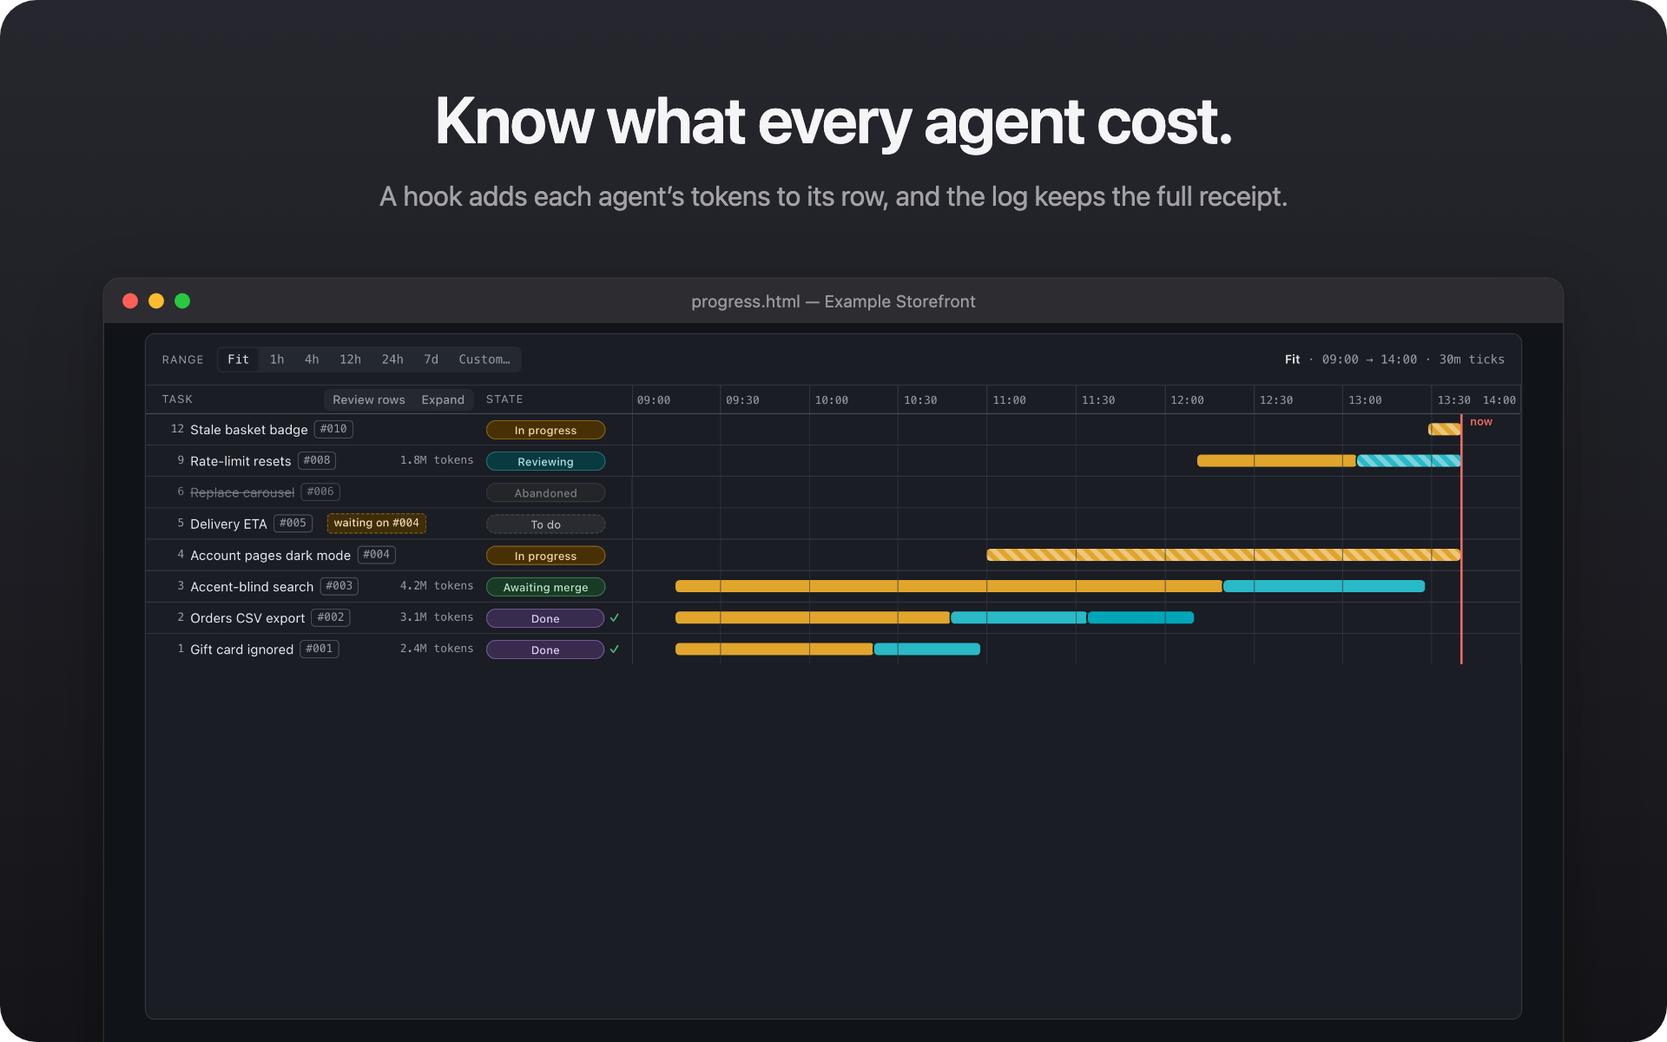
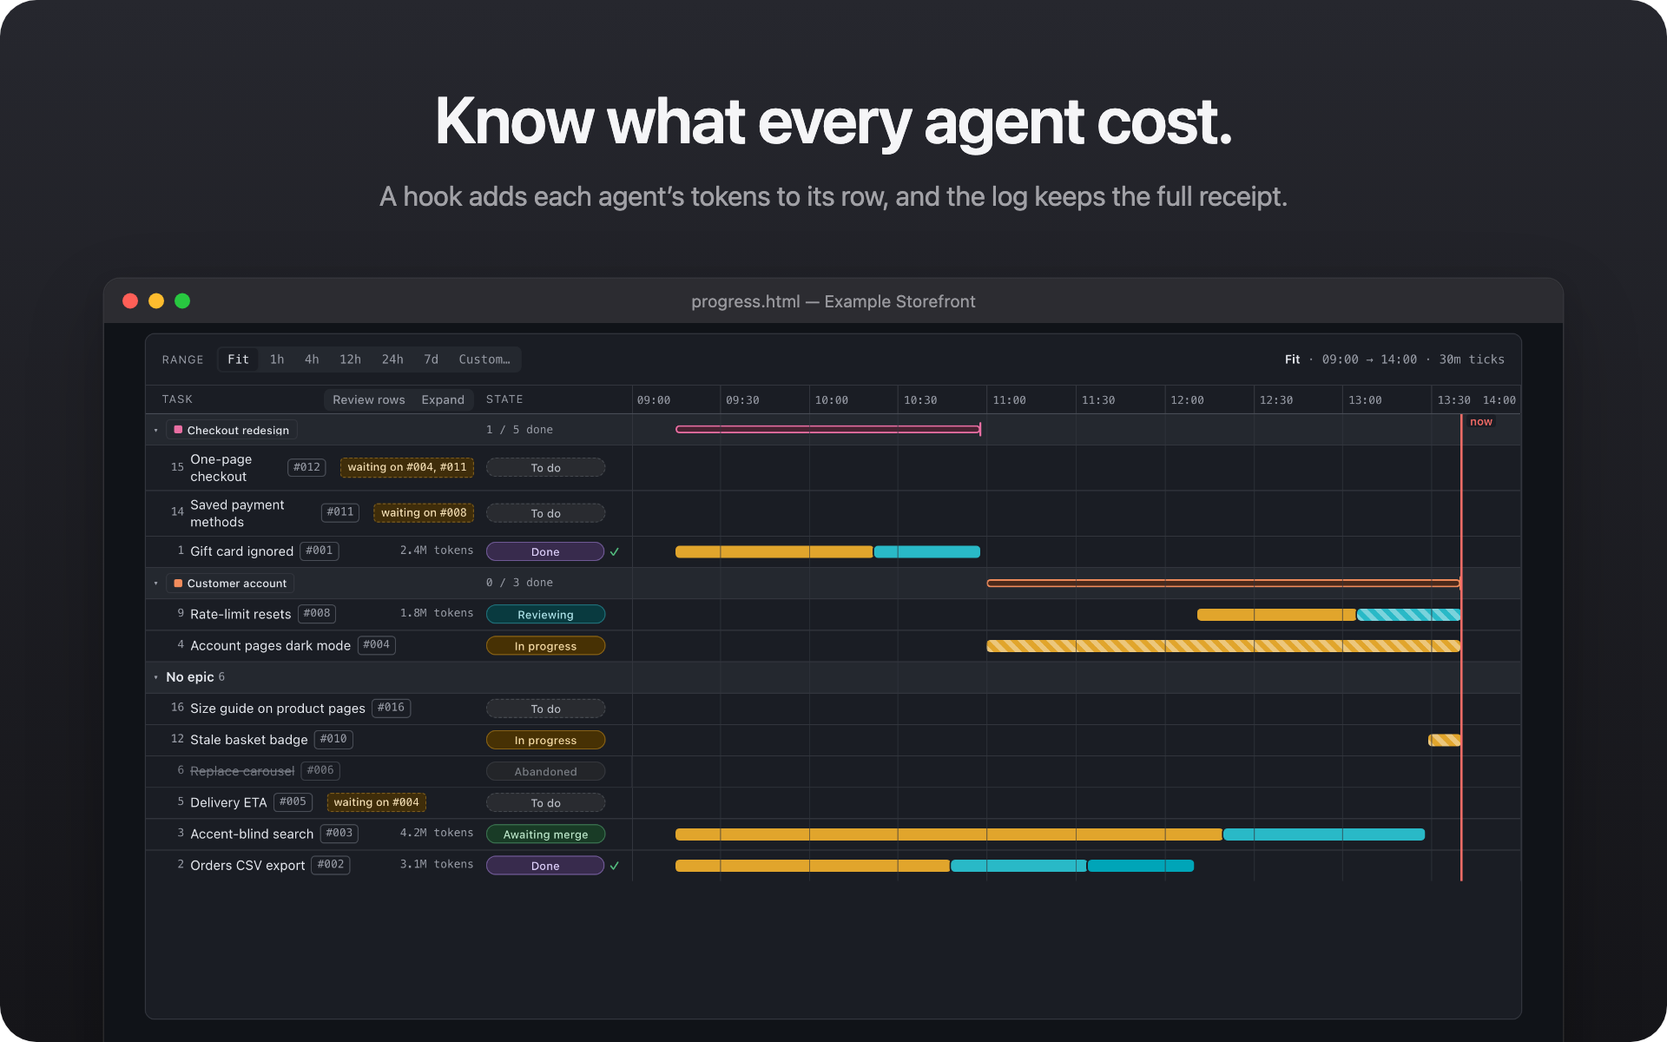
Document the dependency views and retake the README images with a dependency story

diff --git a/.readme-graphics/compose.py b/.readme-graphics/compose.py
@@ -35,6 +35,20 @@ KANBAN_BOTTOM_PADDING = 24
 KANBAN_VIEWPORT_HEIGHT = 500
 # The shot runs on past the board in page background, so the panel's taller window has no blank band.
 KANBAN_SHOT_BOTTOM_PADDING = 400
+# Narrowed to one epic so #012 sits high in To do; hovering it draws arrows from To do and Done. The wait lets them finish drawing in.
+KANBAN_NARROWED_EPIC_SELECTOR = '#ap-kanban-epic [data-epic-chip="checkout-redesign"]'
+KANBAN_HOVERED_CARD_SELECTOR = '.ap-kanban-card[data-ticket-id="012"]'
+KANBAN_WAVES_HOVER_SCRIPT = (f"(async () => {{ document.querySelector('{KANBAN_NARROWED_EPIC_SELECTOR}').click();"
+                             " document.querySelector('[data-todo-order=\"by-wave\"]').click();"
+                             " await new Promise((resolve) => setTimeout(resolve, 400));"
+                             f" document.querySelector('{KANBAN_HOVERED_CARD_SELECTOR}').dispatchEvent(new MouseEvent('mouseover', {{ bubbles: true }}));"
+                             " await new Promise((resolve) => setTimeout(resolve, 1500)); return true; })()")
+DEPENDENCIES_HOVERED_NODE_SELECTOR = '.ap-dependency-node[data-open-ticket="012"]'
+DEPENDENCIES_HOVER_SCRIPT = (f"(async () => {{ document.querySelector('{DEPENDENCIES_HOVERED_NODE_SELECTOR}').dispatchEvent(new PointerEvent('pointerover', {{ bubbles: true }}));"
+                             " await new Promise((resolve) => setTimeout(resolve, 600)); return true; })()")
+EPICS_FIRST_CARD_SELECTOR = '#ap-epics > .ap-card:first-child'
+GRAPH_TOP_MARGIN = 13
+GRAPH_BOTTOM_PADDING = 24
 
 GIF_WIDTH = 1200
 # 29 frames: 750 + 27 × 250 + 2500 = 10 seconds a loop, the "sped up to ten seconds" the READMEs quote.
@@ -75,6 +89,15 @@ PANELS = [
     {'name': 'panel-kanban', 'theme': 'light', 'headline': 'Every ticket on one board.',
      'subhead': 'From filed to delivered: what each card waits on, who reviews it, and what it cost.',
      'layers': [{'image': 'kanban-light.png', 'crop': 'kanban'}]},
+    {'name': 'panel-dependencies', 'theme': 'light', 'headline': 'See what waits on what.',
+     'subhead': 'Open tickets in waves, a one-ticket wave flagged, and the chain behind any ticket you point at.',
+     'layers': [{'image': 'dependencies-light.png', 'crop': 'dependencies'}]},
+    {'name': 'panel-epic-waves', 'theme': 'light', 'headline': 'Every epic, wave by wave.',
+     'subhead': 'What an epic waits on, its tickets in the board’s waves, and the epics it frees.',
+     'layers': [{'image': 'epics-light.png', 'crop': 'epics'}]},
+    {'name': 'panel-kanban-waves', 'theme': 'light', 'headline': 'Point at a card, see its prerequisites.',
+     'subhead': 'To do in wave order, narrowed to one epic, with arrows from the cards the hovered one waits on.',
+     'layers': [{'image': 'kanban-waves-light.png', 'crop': 'kanban-waves'}]},
     {'name': 'panel-themes', 'theme': 'split', 'headline': 'Light or dark. Your call.',
      'subhead': 'It follows your system, or pick Light or Dark and the page remembers.',
      'layers': [{'image': 'hero-light.png', 'crop': 'hero'},
@@ -154,6 +177,15 @@ def base_jobs(build):
         jobs.append({**common, 'height': KANBAN_VIEWPORT_HEIGHT, 'name': f'kanban-{theme}', 'output': f'{build}/shots/kanban-{theme}.png', 'localStorageEntries': page_state(theme, 'kanban'),
                      'clipBottomSelector': '#ap-kanban-frame', 'clipBottomPadding': KANBAN_SHOT_BOTTOM_PADDING,
                      'measure': {'tabBar': '.ap-tab-bar', 'board': '#ap-kanban-frame'}})
+        jobs.append({**common, 'height': KANBAN_VIEWPORT_HEIGHT, 'name': f'kanban-waves-{theme}', 'output': f'{build}/shots/kanban-waves-{theme}.png',
+                     'localStorageEntries': page_state(theme, 'kanban'), 'actionScript': KANBAN_WAVES_HOVER_SCRIPT,
+                     'clipBottomSelector': '#ap-kanban-frame', 'clipBottomPadding': KANBAN_SHOT_BOTTOM_PADDING,
+                     'measure': {'tabBar': '.ap-tab-bar', 'board': '#ap-kanban-frame'}})
+        jobs.append({**common, 'name': f'dependencies-{theme}', 'output': f'{build}/shots/dependencies-{theme}.png', 'localStorageEntries': page_state(theme, 'dependencies'),
+                     'actionScript': DEPENDENCIES_HOVER_SCRIPT, 'fullPage': True,
+                     'measure': {'tabBar': '.ap-tab-bar', 'graph': '#ap-dependencies'}})
+        jobs.append({**common, 'name': f'epics-{theme}', 'output': f'{build}/shots/epics-{theme}.png', 'localStorageEntries': page_state(theme, 'epics'), 'fullPage': True,
+                     'measure': {'tabBar': '.ap-tab-bar', 'firstCard': EPICS_FIRST_CARD_SELECTOR}})
         jobs.append({**common, 'name': f'detail-{theme}', 'output': f'{build}/shots/detail-{theme}.png', 'localStorageEntries': page_state(theme, 'progress'),
                      'actionScript': f"document.querySelector('#ap-task-{DETAIL_TASK_IDENTIFIER}').click(); true",
                      'measure': {'dialog': '#ap-detail', 'tabBar': '.ap-tab-bar'}})
@@ -164,6 +196,9 @@ def crops(measurements):
     hero = measurements['hero-light']
     tickets = measurements['tickets-light']
     kanban = measurements['kanban-light']
+    kanban_waves = measurements['kanban-waves-light']
+    dependencies = measurements['dependencies-light']
+    epics = measurements['epics-light']
     dialog = measurements['detail-light']['dialog']
     hero_height = round(hero['lastRow']['bottom'] + HERO_BOTTOM_PADDING)
     tickets_top = round(tickets['tabBar']['top'] - TICKETS_TOP_MARGIN)
@@ -176,6 +211,9 @@ def crops(measurements):
         'range': [0, round(hero['range']['top'] - RANGE_TOP_MARGIN), VIEWPORT_WIDTH, hero_height],
         'tickets': [0, tickets_top, VIEWPORT_WIDTH, tickets_bottom],
         'kanban': [0, round(kanban['tabBar']['top'] - KANBAN_TOP_MARGIN), VIEWPORT_WIDTH, round(kanban['board']['bottom'] + KANBAN_BOTTOM_PADDING)],
+        'kanban-waves': [0, round(kanban_waves['tabBar']['top'] - KANBAN_TOP_MARGIN), VIEWPORT_WIDTH, round(kanban_waves['board']['bottom'] + KANBAN_BOTTOM_PADDING)],
+        'dependencies': [0, round(dependencies['tabBar']['top'] - GRAPH_TOP_MARGIN), VIEWPORT_WIDTH, round(dependencies['graph']['bottom'] + GRAPH_BOTTOM_PADDING)],
+        'epics': [0, round(epics['tabBar']['top'] - GRAPH_TOP_MARGIN), VIEWPORT_WIDTH, round(epics['firstCard']['bottom'] + GRAPH_BOTTOM_PADDING)],
         'dialog': [dialog_left, dialog_top, dialog_right, VIEWPORT_HEIGHT],
         'dialog-to-viewport': [dialog_left, dialog_top, dialog_right, VIEWPORT_HEIGHT],
         'heroHeight': hero_height,

diff --git a/.readme-graphics/README.md b/.readme-graphics/README.md
@@ -24,9 +24,14 @@ with no UI change `git status` shows nothing, and after one it shows exactly the
 The crops follow the page, not fixed pixels: the hero stops under the chart's last row, the Tickets shot
 opens ticket #004 in the side panel with one click and runs from the tab row down to the panel, the Kanban
 shot stops under the board (taken at a short viewport, since the lanes stretch with it), the detail shot
-clicks task #2 once and is framed around the side panel. If an id or class the jobs rely on is renamed
-(`#ap-rows`, `.ap-row`, `#ap-chart`, `.ap-range`, `.ap-tab-bar`, `#ap-ticket-rows`, `#ap-ticket-table`,
-`#ap-kanban-frame`, `#ap-detail`, `#ap-task-2`), update the selectors in `compose.py` (`base_jobs`, `pages`).
+clicks task #2 once and is framed around the side panel. The Dependencies shot points at #012 to light
+its chain and stops under the graph; the Epics shot stops under the first card; the Kanban-by-wave shot
+presses the Checkout redesign epic chip and "by wave", then points at #012 and waits for its arrows. If
+an id, class or attribute the jobs rely on is renamed (`#ap-rows`, `.ap-row`, `#ap-chart`, `.ap-range`,
+`.ap-tab-bar`, `#ap-ticket-rows`, `#ap-ticket-table`, `#ap-kanban-frame`, `#ap-detail`, `#ap-task-2`,
+`#ap-dependencies`, `.ap-dependency-node[data-open-ticket]`, `#ap-epics > .ap-card`,
+`#ap-kanban-epic [data-epic-chip]`, `[data-todo-order]`, `.ap-kanban-card[data-ticket-id]`), update the
+selectors in `compose.py` (its constants, `base_jobs`, `pages`).
 
 ## Requirements
 
@@ -40,10 +45,10 @@ github-markdown-css from jsDelivr. Diagrams additionally need the `diagrams` ski
 | file | what it does |
 |---|---|
 | `regenerate.sh` | The one command: seed → base screenshots with measurements → panels, frames, icon, story strips, animation frames → the two GIFs → copy the images the root README.md references into `docs/images/`; the rest stay in `build/images/`. |
-| `seed-demo.sh` | The synthetic day, 08:58–13:36, as real CLI commands run under a pinned clock: ten tickets, real git branches, commits and `release`s in a throwaway repository, `task update --tokens` and the hook's log lines. Snapshots `progress.html` after every step. Edit the story here. |
+| `seed-demo.sh` | The synthetic day, 08:58–13:36, as real CLI commands run under a pinned clock: two epics, sixteen tickets (the last six filed at 13:31 with the dependencies the Dependencies tab draws: two chains meeting in a one-ticket wave that frees a ticket in each epic, and one ready ticket beside them), real git branches, commits and `release`s in a throwaway repository, `task update --tokens` and the hook's log lines. Snapshots `progress.html` after every step. Edit the story here. |
 | `demo-bodies/` | The mock ticket bodies. `NNN.md` is filed with the ticket; `NNN.handoff.md` and `NNN.reviewN.md` are appended when the builder and each reviewer would write them, which is what numbers the review rows. |
 | `freeze-clock.js` | Preloaded into the CLI (`bun --preload`): every `Date` reads the story time in `STORY_CLOCK`. |
-| `shoot.js` | Headless Chrome over the DevTools protocol, from a JSON job list: frozen clock, colour scheme, time zone, pre-seeded `localStorage` (theme, tab), an in-page action (the click that opens the side panel), clips by selector, and element measurements written to `build/measurements.json`. |
+| `shoot.js` | Headless Chrome over the DevTools protocol, from a JSON job list: frozen clock, colour scheme, time zone, pre-seeded `localStorage` (theme, tab), an in-page action (the click that opens the side panel, the hover that lights a chain), clips by selector, and element measurements written to `build/measurements.json`. |
 | `compose.py` | The layout: which screenshots to take (`base-jobs`), the store panels, window frames, icon, story strips and GIF frames (`pages`), the board-day GIF (`gif`), the animated hero `panel-watch.gif` (`hero-gif`), the contact sheet (`sheet`). Panel headlines and subheads live here. |
 | `render-diagrams.py` | Re-renders `lifecycle`, `architecture`, `terminal-setup` and `terminal-init` from their SVGs in `docs/images/` and clears the corners outside each card. Only after editing an SVG. |
 | `render-readme.js`, `preview-readme.sh` | A GitHub-like render of a README (GitHub's sanitiser imitated: no style, class or script) and a full-page screenshot of it. |
@@ -58,8 +63,8 @@ github-markdown-css from jsDelivr. Diagrams additionally need the `diagrams` ski
 - **The lifecycle and architecture diagrams** describe the dispatcher and the CLI, not the page; edit the
   SVG when the mechanism changes, then `render-diagrams.py`.
 - **The icon** is `docs/images/icon.svg`; `regenerate.sh` only rasterises it.
-- **The words on the READMEs** — including the numbers they quote from the demo (16.3M tokens, 912
-  reworked lines, 7 of 13 settled) — are written by hand. Changing the story in `seed-demo.sh` means
+- **The words on the READMEs** — including the numbers and ticket ids they quote from the demo (16.3M
+  tokens, 912 reworked lines, #012 in a wave of its own) — are written by hand. Changing the story in `seed-demo.sh` means
   checking those sentences.
 
 ## Safety
@@ -80,6 +85,9 @@ elsewhere, once replaced this repository's own board.
 | `panel-kanban.png` | "Every ticket on one board." — the Kanban tab, light. | README.md |
 | `panel-story.png` | "Click for the whole story." — the detail panel of #002 with its six phases. | README.md |
 | `panel-tickets.png` | "Tickets an agent can build unasked." — the Tickets tab with #004's body in the side panel. | README.md |
+| `panel-dependencies.png` | "See what waits on what." — the Dependencies tab, #012 pointed at so its chain is lit. | README.md |
+| `panel-epic-waves.png` | "Every epic, wave by wave." — the Epics tab's two cards with their dependency rows. | README.md |
+| `panel-kanban-waves.png` | "Point at a card, see its prerequisites." — the Kanban tab narrowed to Checkout redesign, To do by wave, #012 hovered with its arrows. | README.md |
 | `panel-themes.png` | "Light or dark. Your call." — the Progress tab split diagonally, light and dark. | README.md, keynote, day on the board |
 | `panel-cost.png` | "Know what every agent cost." — the token column, dark. | README.md, keynote |
 | `frame-hero-*.png` | The Progress tab in a macOS window, light or dark. | keynote, day on the board |

diff --git a/docs/cli.md b/docs/cli.md
@@ -518,8 +518,9 @@ missing stamp, as a render from an older CLI, a hand deletion or a failed stamp 
 as one browser network line (`404` or `ERR_FILE_NOT_FOUND`) per page load, not a script error; no
 script can suppress that line, and the next render ends it.
 
-The tabs are **Kanban · Progress · Tickets · Epics**, in that order; the chosen one is kept in the
-browser, and Epics is hidden on a board without epics.
+The tabs are **Kanban · Progress · Tickets · Epics · Dependencies**, in that order; the chosen one is
+kept in the browser, Epics is hidden on a board without epics, and Dependencies on one where no ticket
+waits on another.
 
 - **Kanban tab**: one card per ticket in six lanes — To do, In progress, Review, Awaiting merge, Done
   and Abandoned — each card in the lane its state names. The open lanes run high → normal → low, then
@@ -530,7 +531,11 @@ browser, and Epics is hidden on a board without epics.
   until clicked. The finished-work switch decides what both closed lanes hold, and each ends with how
   many earlier cards it leaves out and a "show all". On a board with epics, an epic strip above the
   lanes narrows the board to the epics pressed, each with its roll-up; the choice is kept in the
-  browser.
+  browser. On a board with dependencies, "Order To do" switches To do between filed and by wave: one
+  group per dependency wave, headed with how many of its tickets are ready and how wide it is, a
+  one-ticket wave marked "one at a time"; the choice is kept in the browser. Pointing at a card draws
+  arrows from the cards it waits on and marks them "needed first"; a card's `↤ N` counts the tickets
+  that wait on it, directly or further down the chain.
 - **Progress tab**: the Gantt chart, filling the window below the range bar and scrolling its rows
   inside it, one row per task, newest on top, each with its number, name, ticket badge, token count,
   status pill and bar, one segment per phase it went through; and a now-marker. The log shows only in
@@ -547,8 +552,17 @@ browser, and Epics is hidden on a board without epics.
   sorted by any column; on a board with epics it can be grouped by epic, a choice kept in the
   browser. A ticket's body shows only in the detail panel.
 - **Epics tab**: one card per epic, open ones first, with its key, its description's first paragraph,
-  a roll-up of its tickets by status and their list; the title opens the epic in the detail panel and
-  a ticket opens that ticket.
+  a roll-up of its tickets by status, three dependency rows and the list of its tickets; the title
+  opens the epic in the detail panel and a ticket opens that ticket. The rows, by primary epic: "Waits
+  on", the other epics' tickets its own wait on; its tickets in the board's waves, Done first; and
+  "Frees", the epics waiting on it, with the tickets they wait through.
+- **Dependencies tab**: the open tickets' waves left to right, a Done column first holding the settled
+  tickets an open one waits on, then "Now" (nothing open in front of it), "Wave 2" and on; each
+  column says how many tickets in it can run side by side against the board's slots, and a one-ticket
+  wave is marked "one at a time". A ticket shows its state (ready, in progress, in review or held)
+  and how many wait on it; an arrow runs from each ticket to the ones waiting on it, dashed from a
+  settled one. Pointing at a ticket lights its whole chain, before and after; a click opens it in the
+  detail panel.
 - **The header** above the tabs: a status line, `LIVE` while the page is under ten minutes old and
   `SNAPSHOT` after, with how long ago it was generated, re-checked every minute so an open page turns
   into a snapshot without a reload; the project name; the Auto · Light · Dark theme switch; and four

diff --git a/README.md b/README.md
@@ -25,7 +25,7 @@
 <br>
 
 <p align="center">
-  <img src="docs/images/panel-watch.gif" width="100%" alt="Watch your agents work: the Progress tab of the Example Storefront board in light mode, animated from 09:10 to 13:36 as the now-line sweeps across, Gantt bars grow, pills move from unstarted to wip to reviewing to done, and review rows appear above their tickets">
+  <img src="docs/images/panel-watch.gif" width="100%" alt="Watch your agents work: the Progress tab of the Example Storefront board in light mode, animated from 09:10 to 13:36 as the now-line sweeps across, Gantt bars grow under their epic heads, pills move from unstarted to wip to reviewing to done, and review rows appear above their tickets">
 </p>
 
 <p align="center">
@@ -47,6 +47,26 @@
     </td>
     <td width="50%" valign="top">
       <img src="docs/images/panel-cost.png" width="100%" alt="Know what every agent cost: the token column of the chart in dark mode">
+    </td>
+  </tr>
+</table>
+
+### What waits on what
+
+Tickets that wait on others are laid out in waves: what can run now, what the next wave frees, and a
+wave only one ticket wide, where the work cannot spread over agents, marked as the bottleneck.
+
+<p align="center">
+  <img src="docs/images/panel-dependencies.png" width="100%" alt="See what waits on what: the Dependencies tab with a Done column and waves Now, Wave 2, Wave 3 and Wave 4; Wave 3 holds only #012 One-page checkout and is marked one at a time, and pointing at #012 lights the chains behind it, from #004 and from #008 through #011, and the two tickets it frees, #013 and #014">
+</p>
+
+<table>
+  <tr>
+    <td width="50%" valign="top">
+      <img src="docs/images/panel-epic-waves.png" width="100%" alt="Every epic, wave by wave: the Epics tab with the Checkout redesign and Customer account cards, each with its roll-up and three dependency rows: the tickets of the other epic it waits on, its own tickets in the board's waves, and the other epic it frees through #012 or through #004 and #008">
+    </td>
+    <td width="50%" valign="top">
+      <img src="docs/images/panel-kanban-waves.png" width="100%" alt="Point at a card, see its prerequisites: the Kanban tab narrowed to the Checkout redesign epic with To do ordered by wave, Now, Wave 2 and a one-at-a-time Wave 3; hovering #012 One-page checkout draws arrows from #011 in To do and #001 in Done">
     </td>
   </tr>
 </table>
@@ -216,7 +236,7 @@ offers its official installer.
   </tr>
   <tr>
     <td width="190"><b>Dashboard</b></td>
-    <td>one self-contained <code>progress.html</code>: Kanban · Progress · Tickets tabs, the Kanban board beside the Tickets tab rather than in place of it, and an Epics tab once the board has epics; light, dark or auto</td>
+    <td>one self-contained <code>progress.html</code>: Kanban · Progress · Tickets tabs, the Kanban board beside the Tickets tab rather than in place of it, an Epics tab once the board has epics and a Dependencies tab once a ticket waits on another; light, dark or auto</td>
   </tr>
   <tr>
     <td width="190"><b>Agents</b></td>

diff --git a/skills/agent-progress/SKILL.md b/skills/agent-progress/SKILL.md
@@ -43,8 +43,8 @@ order to file a ticket, move one, and stay out of the tool's way.
 - **The log** is the narrative of the work: one line per milestone, newest first in `status` and in
   the page's detail panel for the row or ticket it names.
 - **The dashboard** is `.agent-progress/progress.html`, written fresh by every command that changes
-  anything, with tabs **Kanban** · **Progress** · **Tickets** · **Epics**: the Kanban board sits
-  beside the Tickets tab, not in place of it. One file, no network dependency.
+  anything, with tabs **Kanban** · **Progress** · **Tickets** · **Epics** · **Dependencies**: the
+  Kanban board sits beside the Tickets tab, not in place of it. One file, no network dependency.
 
 ## In a session
 

diff --git a/.readme-graphics/demo-bodies/012.md b/.readme-graphics/demo-bodies/012.md
@@ -1,0 +1,18 @@
+# 012 — One-page checkout
+
+## Report
+
+Checkout takes four pages; most customers who leave do so on the second.
+
+## Wanted
+
+Address, delivery, payment and review on one page, in the account's theme.
+
+## Acceptance
+
+- The saved cards from #011 and the account's dark mode from #004 both work on the new page.
+- The gift card from #001 is still subtracted before charging.
+
+## Brief
+
+Work belongs in: `src/checkout/` (new `OnePage.tsx`, the four step pages removed).

diff --git a/.readme-graphics/demo-bodies/011.md b/.readme-graphics/demo-bodies/011.md
@@ -1,0 +1,18 @@
+# 011 — Saved payment methods
+
+## Report
+
+Returning customers type their card in again on every order.
+
+## Wanted
+
+A signed-in customer can save a card at checkout and pick it next time.
+
+## Acceptance
+
+- A saved card shows its brand and last four digits only.
+- Saving needs a fresh sign-in, rate-limited as #008 limits password resets.
+
+## Brief
+
+Work belongs in: `src/checkout/PaymentMethods.tsx` (new), `src/auth/StepUp.ts`.

diff --git a/.readme-graphics/demo-bodies/014.md b/.readme-graphics/demo-bodies/014.md
@@ -1,0 +1,13 @@
+# 014 — Reorder from order history
+
+## Report
+
+Customers rebuild the same basket by hand every month.
+
+## Wanted
+
+A "Reorder" button on each past order in the account pages, opening the one-page checkout from #012.
+
+## Acceptance
+
+- Items no longer sold are listed, not silently dropped.

diff --git a/.readme-graphics/demo-bodies/016.md b/.readme-graphics/demo-bodies/016.md
@@ -1,0 +1,13 @@
+# 016 — Size guide on product pages
+
+## Report
+
+Most clothing returns give "wrong size" as the reason.
+
+## Wanted
+
+A size guide beside the size picker, with the brand's own measurements.
+
+## Acceptance
+
+- A product with no measurements shows no guide rather than an empty one.

diff --git a/.readme-graphics/demo-bodies/013.md b/.readme-graphics/demo-bodies/013.md
@@ -1,0 +1,13 @@
+# 013 — Express checkout button
+
+## Report
+
+Customers buying one item still walk through the whole basket.
+
+## Wanted
+
+A "Buy now" button on the product page that opens the one-page checkout from #012 with that item.
+
+## Acceptance
+
+- The basket is left as it was.

diff --git a/.readme-graphics/demo-bodies/015.md b/.readme-graphics/demo-bodies/015.md
@@ -1,0 +1,13 @@
+# 015 — Search suggestions
+
+## Report
+
+The search box only answers after Enter.
+
+## Wanted
+
+Suggestions while typing, matched the accent-blind way #003 introduces.
+
+## Acceptance
+
+- "creme" suggests "Crème brûlée set".
